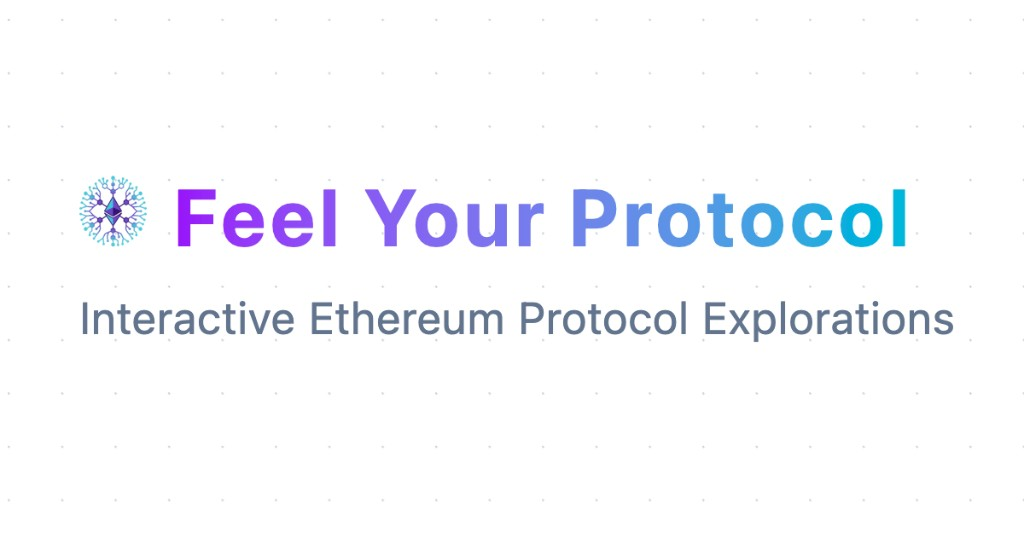
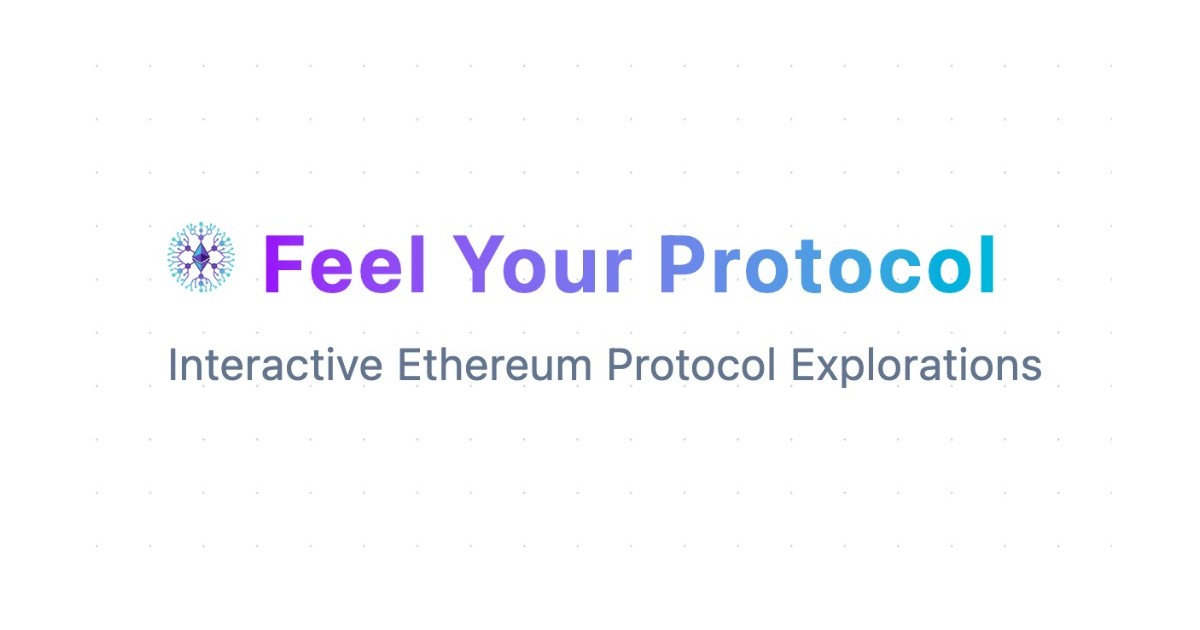
Some fixes (#24)

Changed region(s): [[0.0625, 0.3277, 0.9062, 0.4767], [0.0625, 0.5363, 0.9375, 0.6257]]

diff --git a/src/libs/__tests__/pageSeo.spec.ts b/src/libs/__tests__/pageSeo.spec.ts
@@ -15,6 +15,7 @@ import {
   getSitemapPaths,
   getStaticShellHeading,
   getValidSpaPaths,
+  HOME_PAGE_TITLE,
   injectBuiltPageHtml,
   injectSeoIntoHtml,
   injectStaticShellIntoHtml,
@@ -56,8 +57,8 @@ describe('pageSeo', () => {
     expect(seo.description.length).toBeGreaterThan(20)
     expect(seo.canonicalUrl).toBe(`${SITE_ORIGIN}${exploration.path}`)
     expect(seo.imageUrl).toBe(`${SITE_ORIGIN}${DEFAULT_OG_IMAGE_PATH}`)
-    expect(seo.imageWidth).toBe(1024)
-    expect(seo.imageHeight).toBe(537)
+    expect(seo.imageWidth).toBe(1200)
+    expect(seo.imageHeight).toBe(630)
     expect(JSON.stringify(seo.jsonLd)).toContain(exploration.infoURL)
   })
 
@@ -97,13 +98,14 @@ describe('pageSeo', () => {
       getPageSeoForPath('/'),
     )
 
-    expect(html).toContain('<title>Feel Your Protocol</title>')
+    expect(html).toContain(`<title>${HOME_PAGE_TITLE}</title>`)
     expect(html).toContain(`<meta name="description" content="${DEFAULT_DESCRIPTION}">`)
     expect(html).toContain(`<link rel="canonical" href="${SITE_ORIGIN}/">`)
     expect(html).toContain(
       `<meta property="og:image" content="${SITE_ORIGIN}${DEFAULT_OG_IMAGE_PATH}">`,
     )
-    expect(html).toContain('<meta property="og:image:width" content="1024">')
+    expect(html).toContain('<meta property="og:image:width" content="1200">')
+    expect(html).toContain('<meta property="og:image:height" content="630">')
     expect(html).toContain('<meta name="twitter:card" content="summary_large_image">')
     expect(html).toContain('application/ld+json')
   })

diff --git a/src/libs/pageSeo.ts b/src/libs/pageSeo.ts
@@ -4,14 +4,15 @@ import { TOPICS } from '@/explorations/TOPICS'
 export const SITE_ORIGIN = 'https://feelyourprotocol.org'
 export const SITE_NAME = 'Feel Your Protocol'
 
+export const HOME_PAGE_TITLE = `${SITE_NAME} — Interactive Ethereum Protocol Explorations`
+
 export const DEFAULT_DESCRIPTION =
-  'Collaborative open-source interactive explorations of upcoming Ethereum protocol changes. ' +
-  'Widgets are powered by real EVM and cryptography libraries running in the browser.'
+  'Interactive open-source explorations of Ethereum protocol changes. Real EVM and crypto libraries running in your browser.'
 
 /** Stable path under `public/og/` — copied verbatim to `dist/website/og/` on build. */
 export const DEFAULT_OG_IMAGE_PATH = '/og/default.png'
-export const DEFAULT_OG_IMAGE_WIDTH = 1024
-export const DEFAULT_OG_IMAGE_HEIGHT = 537
+export const DEFAULT_OG_IMAGE_WIDTH = 1200
+export const DEFAULT_OG_IMAGE_HEIGHT = 630
 
 export interface BreadcrumbItem {
   label: string
@@ -156,7 +157,7 @@ export function getPageSeoForPath(path: string): PageSeo {
   if (path === '/') {
     return withSocialImage({
       path,
-      title: SITE_NAME,
+      title: HOME_PAGE_TITLE,
       description: DEFAULT_DESCRIPTION,
       canonicalUrl,
       jsonLd: [

diff --git a/index.html b/index.html
@@ -4,8 +4,8 @@
     <meta charset="UTF-8">
     <link rel="icon" href="/src/favicon.png">
     <meta name="viewport" content="width=device-width, initial-scale=1.0">
-    <meta name="description" content="Interactive explorations of upcoming Ethereum protocol changes, powered by real EVM and cryptography libraries in the browser.">
-    <title>Feel Your Protocol</title>
+    <meta name="description" content="Interactive open-source explorations of Ethereum protocol changes. Real EVM and crypto libraries running in your browser.">
+    <title>Feel Your Protocol — Interactive Ethereum Protocol Explorations</title>
   </head>
   <body class="container mx-auto px-3 py-4 md:px-6">
     <div id="app"></div>
